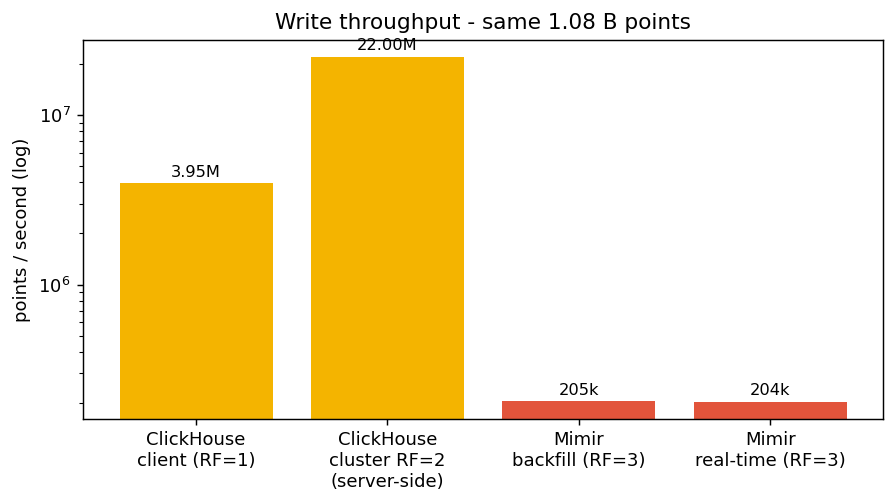
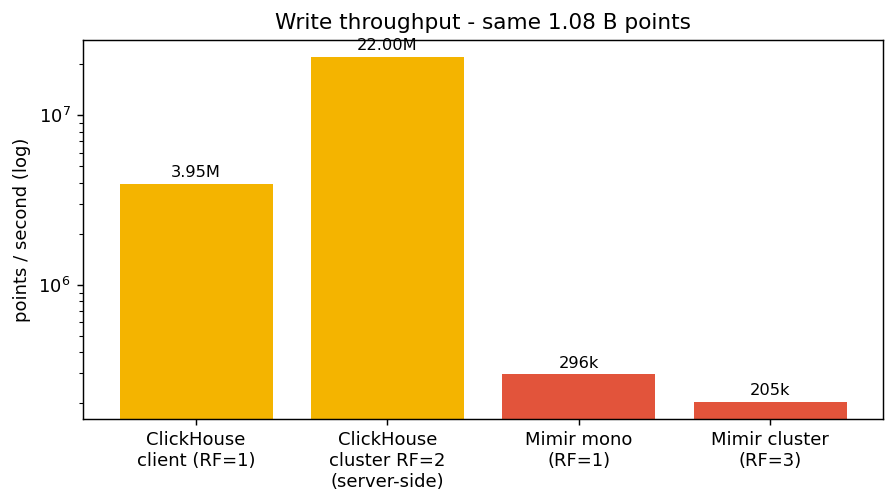
docs: refresh charts (add Mimir mono RF=1, fair read numbers)
Write throughput and CPU-time charts now include the single-instance Mimir (RF=1);
read gradient uses the symmetric HTTP p50 numbers.

Claude-Session: https://claude.ai/code/session_01Q2r3hZTuTyfpBMdWWRLmXr

diff --git a/scripts/plots.py b/scripts/plots.py
@@ -38,8 +38,8 @@ def bars(ax, labels, values, colors, valfmt):
 # 1) Write throughput (points/s), log scale.
 fig, ax = plt.subplots(figsize=(7, 4))
 labels = ["ClickHouse\nclient (RF=1)", "ClickHouse\ncluster RF=2\n(server-side)",
-          "Mimir\nbackfill (RF=3)", "Mimir\nreal-time (RF=3)"]
-vals = [3.95e6, 22e6, 0.205e6, 0.204e6]
+          "Mimir mono\n(RF=1)", "Mimir cluster\n(RF=3)"]
+vals = [3.95e6, 22e6, 0.296e6, 0.205e6]
 bars(ax, labels, vals, [CH, CH, MI, MI], lambda v: f"{v/1e6:.2f}M" if v >= 1e6 else f"{v/1e3:.0f}k")
 ax.set_yscale("log")
 ax.set_ylabel("points / second (log)")
@@ -47,19 +47,19 @@ ax.set_title("Write throughput - same 1.08 B points")
 save(fig, "write_throughput.png")
 
 # 2) CPU-time to ingest the full dataset (core-seconds), log scale.
-fig, ax = plt.subplots(figsize=(5.5, 4))
-bars(ax, ["ClickHouse\n(ingest + RF=2)", "Mimir\n(RF=3)"], [500, 28700], [CH, MI],
-     lambda v: f"{v:,.0f}")
+fig, ax = plt.subplots(figsize=(6.5, 4))
+bars(ax, ["ClickHouse\n(ingest+RF=2)", "Mimir mono\n(RF=1)", "Mimir cluster\n(RF=3)"],
+     [500, 10800, 28700], [CH, MI, MI], lambda v: f"{v:,.0f}")
 ax.set_yscale("log")
 ax.set_ylabel("CPU-time (core-seconds, log)")
-ax.set_title("CPU cost to ingest 1.08 B points (~50x)")
+ax.set_title("CPU cost to ingest 1.08 B points")
 save(fig, "cpu_time.png")
 
 # 3) Read latency gradient (ms), grouped bars, log scale.
 fig, ax = plt.subplots(figsize=(7.5, 4))
 groups = ["single series\n1h", "1 metric / all hosts\n1h", "1 metric / all hosts\n4h"]
-mimir = [7, 817, 2705]
-ch = [6, 211, 361]
+mimir = [4, 753, 2524]
+ch = [6, 245, 451]
 x = range(len(groups))
 w = 0.38
 b1 = ax.bar([i - w/2 for i in x], mimir, w, color=MI, label="Mimir (PromQL)")
@@ -71,7 +71,7 @@ for bs in (b1, b2):
 ax.set_yscale("log")
 ax.set_xticks(list(x)); ax.set_xticklabels(groups)
 ax.set_ylabel("latency (ms, log)")
-ax.set_title("Read latency - mirrored queries (100k hosts)")
+ax.set_title("Read latency p50 - mirrored queries, HTTP both sides (100k hosts)")
 ax.legend()
 save(fig, "read_gradient.png")
 